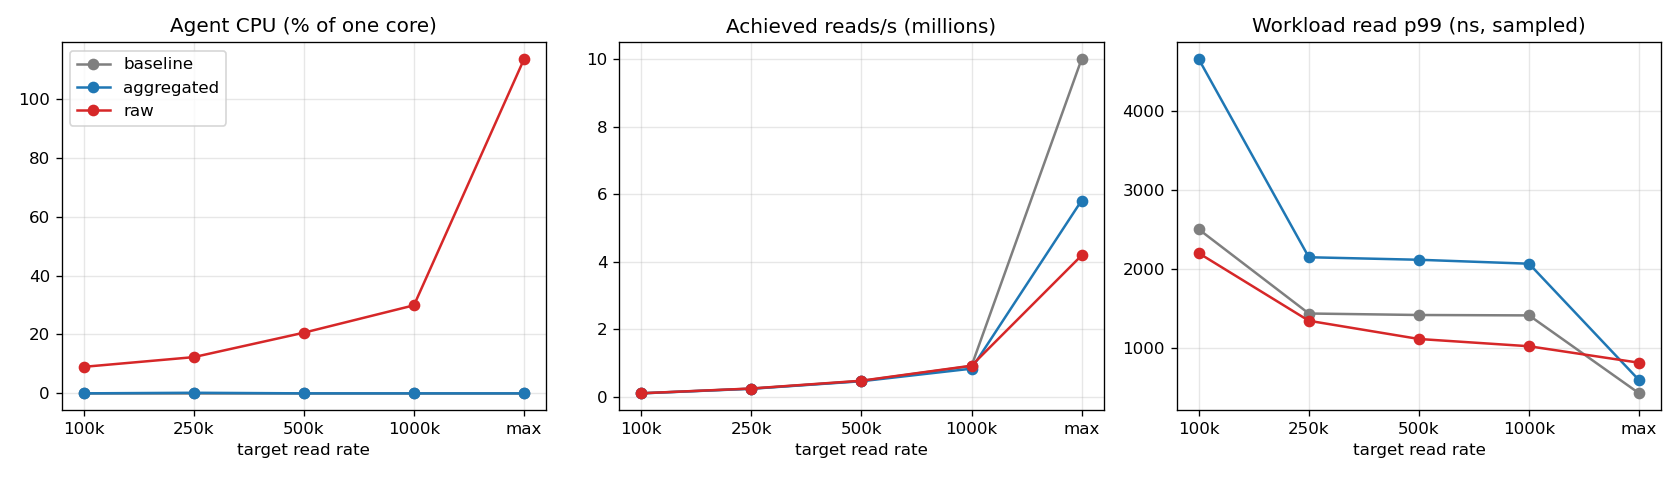
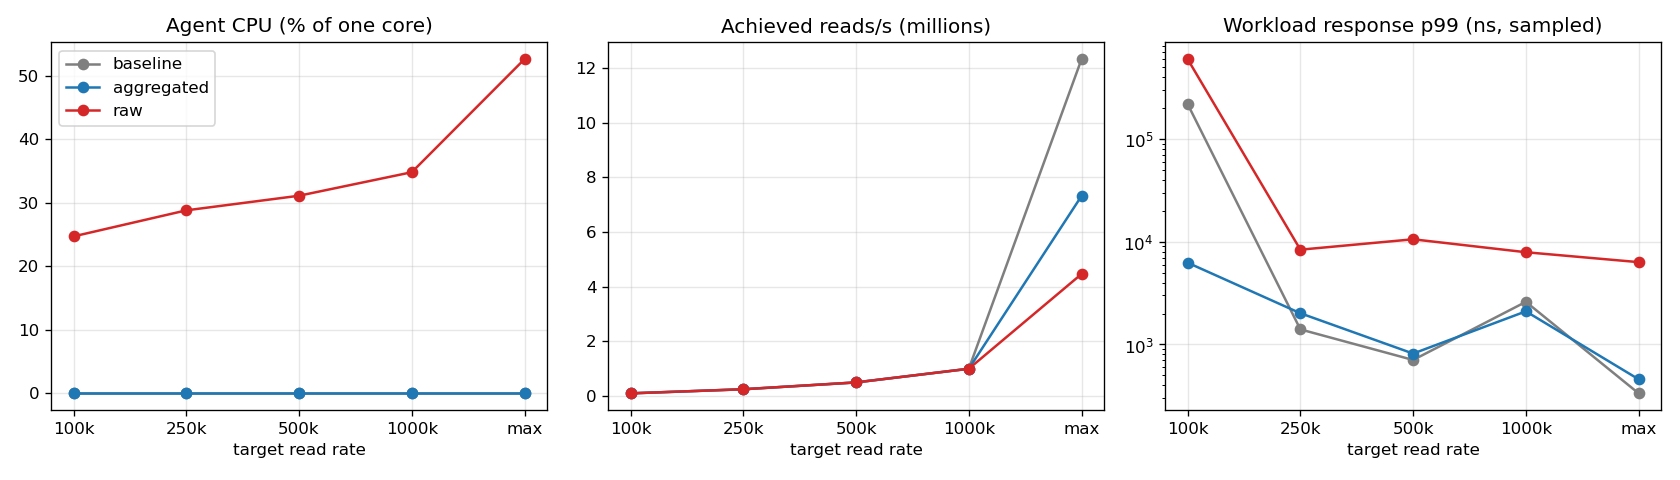
Add an A/B benchmark script, record run conditions, plot current data

diff --git a/benchmarks/plot.py b/benchmarks/plot.py
@@ -22,7 +22,7 @@ def rows(path):
 
 def overhead(run):
     by = defaultdict(list)
-    for r in rows(run / "overhead.csv"):
+    for r in rows(run / "overhead_quiet.csv"):
         by[(r["mode"], int(r["target_rate"]))].append(r)
     rates = sorted({rate for _, rate in by}, key=lambda r: (r == 0, r))
     label = lambda r: "max" if r == 0 else f"{r // 1000}k"
@@ -33,13 +33,14 @@ def overhead(run):
         x = range(len(rates))
         cpu.plot(x, med("agent_cpu_pct"), "o-", color=color, label=mode)
         thr.plot(x, [v / 1e6 for v in med("achieved_ops_per_sec")], "o-", color=color, label=mode)
-        p99.plot(x, med("load_p99_ns"), "o-", color=color, label=mode)
+        p99.plot(x, med("load_response_p99_ns"), "o-", color=color, label=mode)
     for ax, title in [(cpu, "Agent CPU (% of one core)"), (thr, "Achieved reads/s (millions)"),
-                      (p99, "Workload read p99 (ns, sampled)")]:
+                      (p99, "Workload response p99 (ns, sampled)")]:
         ax.set_xticks(range(len(rates)), [label(r) for r in rates])
         ax.set_xlabel("target read rate")
         ax.set_title(title)
         ax.grid(alpha=0.3)
+    p99.set_yscale("log")
     cpu.legend()
     fig.tight_layout()
     fig.savefig(run / "overhead.png", dpi=120)
@@ -66,7 +67,7 @@ def ringsweep(run):
 
 if __name__ == "__main__":
     run = Path(sys.argv[1])
-    if (run / "overhead.csv").exists():
+    if (run / "overhead_quiet.csv").exists():
         overhead(run)
     if (run / "ringsweep.csv").exists():
         ringsweep(run)

diff --git a/cmd/loadgen/main.go b/cmd/loadgen/main.go
@@ -17,7 +17,7 @@ import (
 )
 
 // Every sampleEvery-th call is timed; timing every call would add two clock reads to a
-// ~200ns syscall.
+// ~160ns syscall.
 const sampleEvery = 16
 
 type result struct {
@@ -126,8 +126,8 @@ func run(deadline time.Time, rate int, read func()) (uint64, samples) {
 }
 
 // runUnthrottled has no schedule, so response time equals service time. The clock is only
-// read for samples and once per batch: on every call it costs as much as the read and
-// halves the rate.
+// read for samples and once per batch: reading it on every call cut the rate by about a
+// third.
 func runUnthrottled(deadline time.Time, read func()) (uint64, samples) {
 	var (
 		n uint64
